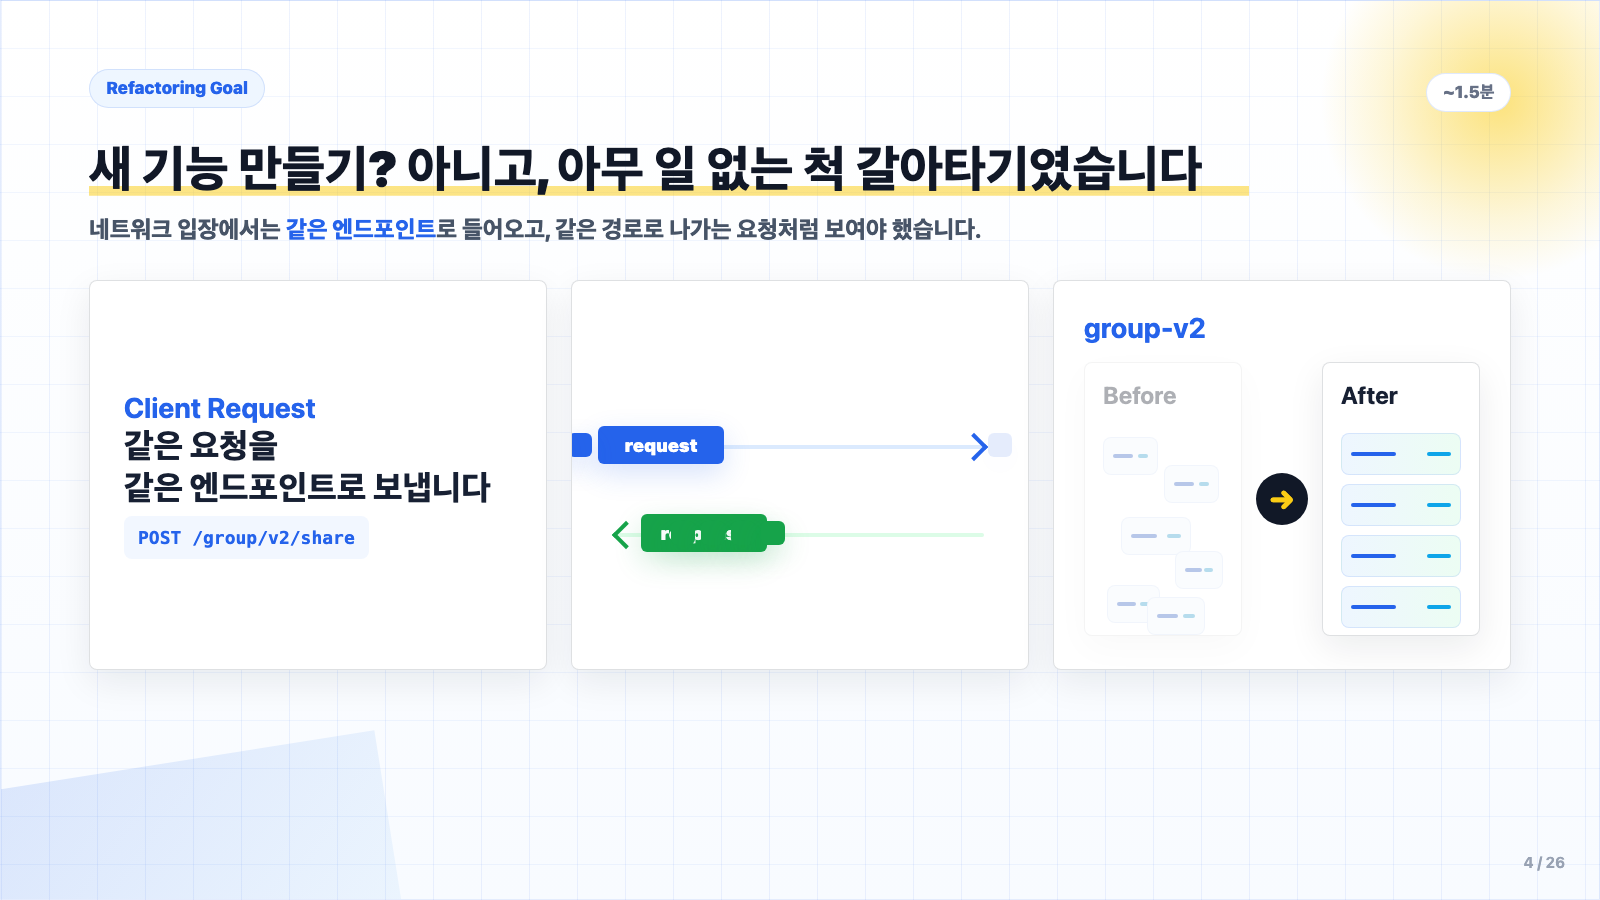
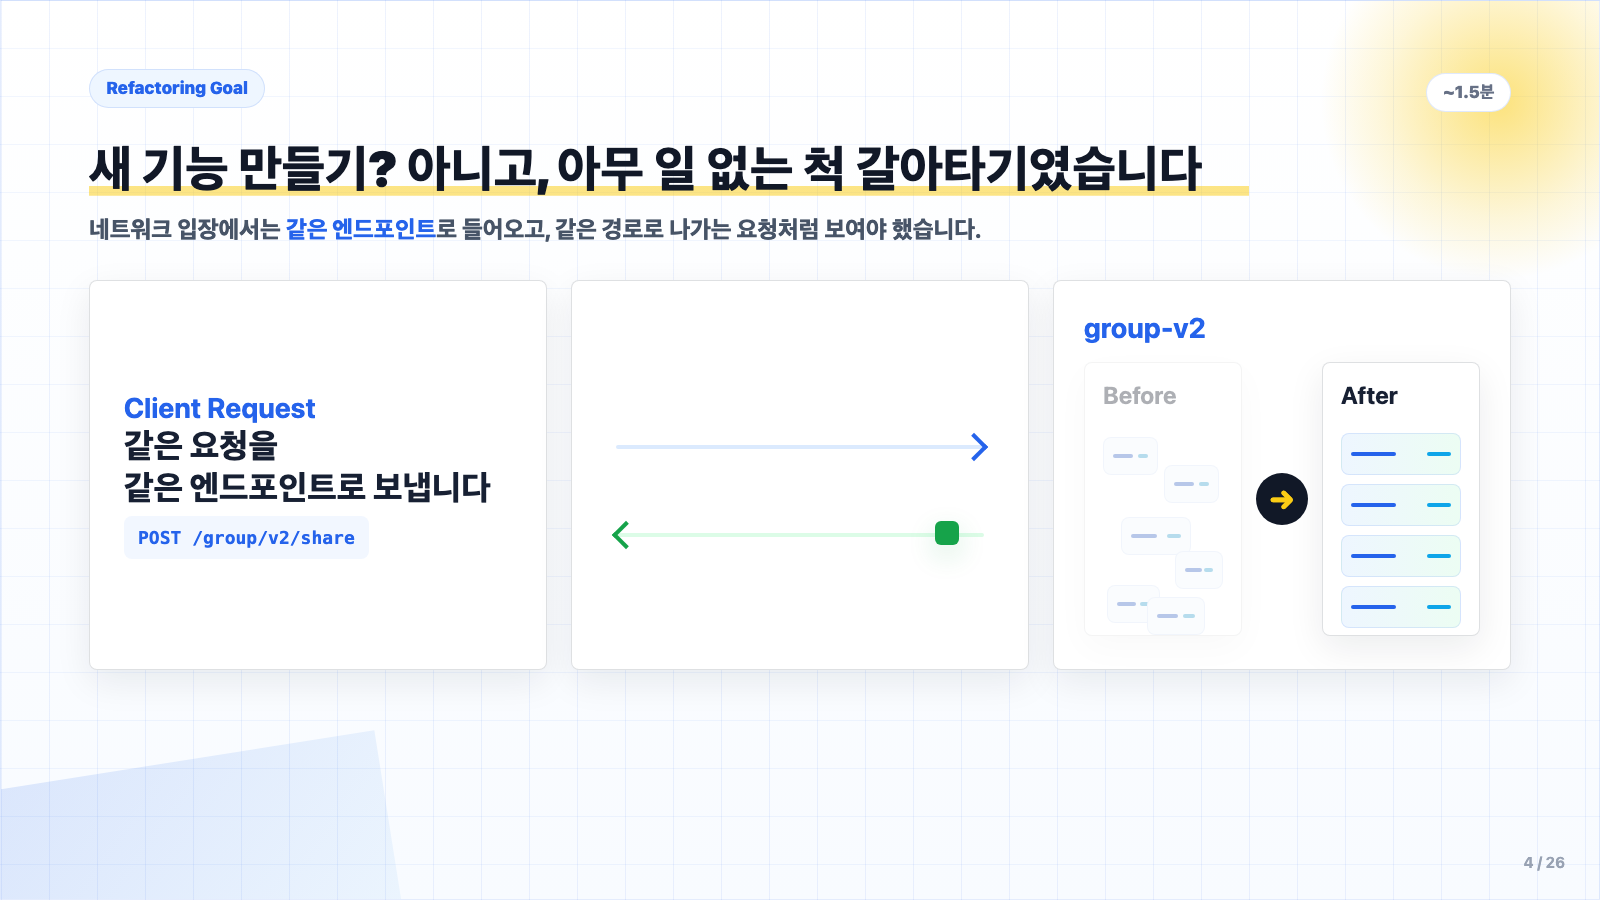
Sequence slide 4 network packets

diff --git a/index.html b/index.html
@@ -1041,9 +1041,6 @@ body .deck .slide[data-slide="4"] .slide-inner > p.lead{
   font-weight:1000;
   letter-spacing:.01em;
 }
-.flow-packet.mini{
-  animation-delay:calc(var(--i, 1) * .18s);
-}
 .flow-line.response{justify-content:flex-end}
 .flow-line.response:before{background:#dcfce7}
 .flow-line.response:after{border-color:#16a34a}
@@ -1162,24 +1159,26 @@ body .deck .slide[data-slide="4"] .slide-inner > p.lead{
 }
 @keyframes packet-to-server{
   0%{left:-134px;opacity:0}
-  9%,76%{opacity:1}
+  1%,8%{opacity:1}
+  9%{left:calc(100% + 28px);opacity:0}
   100%{left:calc(100% + 28px);opacity:0}
 }
 @keyframes packet-to-client{
   0%{left:calc(100% + 28px);opacity:0}
-  9%,76%{opacity:1}
+  1%,8%{opacity:1}
+  9%{left:-134px;opacity:0}
   100%{left:-134px;opacity:0}
 }
 @keyframes messy-dim{0%,48%{opacity:1;filter:none}100%{opacity:.36;filter:saturate(.7)}}
 @keyframes sorted-focus{0%,44%{transform:scale(.98);box-shadow:0 12px 36px rgba(15,23,42,.08)}72%{transform:scale(1.035);box-shadow:0 0 0 8px rgba(22,163,74,.14),0 18px 44px rgba(22,163,74,.18)}100%{transform:scale(1);box-shadow:0 12px 36px rgba(15,23,42,.08)}}
 @keyframes note-pop{0%{opacity:0;transform:translateY(14px)}100%{opacity:1;transform:none}}
 .slide.active.slide-armed .flow-card:after{animation:flow-sweep 1.4s ease .45s both}
-.slide.active.slide-armed .flow-line.request .flow-packet{animation:packet-to-server 3.4s linear infinite}
-.slide.active.slide-armed .flow-line.request .flow-packet.mini{animation-delay:calc(var(--i, 1) * .2s)}
+.slide.active.slide-armed .flow-line.request .flow-packet{animation:packet-to-server 9s linear infinite;animation-delay:.2s}
+.slide.active.slide-armed .flow-line.request .flow-packet.mini{animation-delay:calc(.2s + var(--i, 1) * .85s)}
 .slide.active.slide-armed .internal-state.before{animation:messy-dim 1.25s cubic-bezier(.4,0,.2,1) 1.35s both}
 .slide.active.slide-armed .internal-state.after{animation:sorted-focus .95s cubic-bezier(.22,1.3,.36,1) 1.55s both}
-.slide.active.slide-armed .flow-line.response .flow-packet{animation:packet-to-client 3.4s linear infinite;animation-delay:1.7s}
-.slide.active.slide-armed .flow-line.response .flow-packet.mini{animation-delay:calc(1.7s + var(--i, 1) * .2s)}
+.slide.active.slide-armed .flow-line.response .flow-packet{animation:packet-to-client 9s linear infinite;animation-delay:4.8s}
+.slide.active.slide-armed .flow-line.response .flow-packet.mini{animation-delay:calc(4.8s + var(--i, 1) * .85s)}
 .slide.active.slide-armed .messy-map i,.slide.active.slide-armed .sorted-map i{animation:block-pop .42s cubic-bezier(.22,1.3,.36,1) calc(.9s + var(--p,0) * 80ms) both}
 .slide.active.slide-armed .same-contract span,.slide.active.slide-armed .server-note span{opacity:0;animation:note-pop .48s cubic-bezier(.4,0,.2,1) 2.95s both}
 .slide.active.slide-armed .same-contract span:nth-child(2),.slide.active.slide-armed .server-note span:nth-child(2){animation-delay:3.08s}